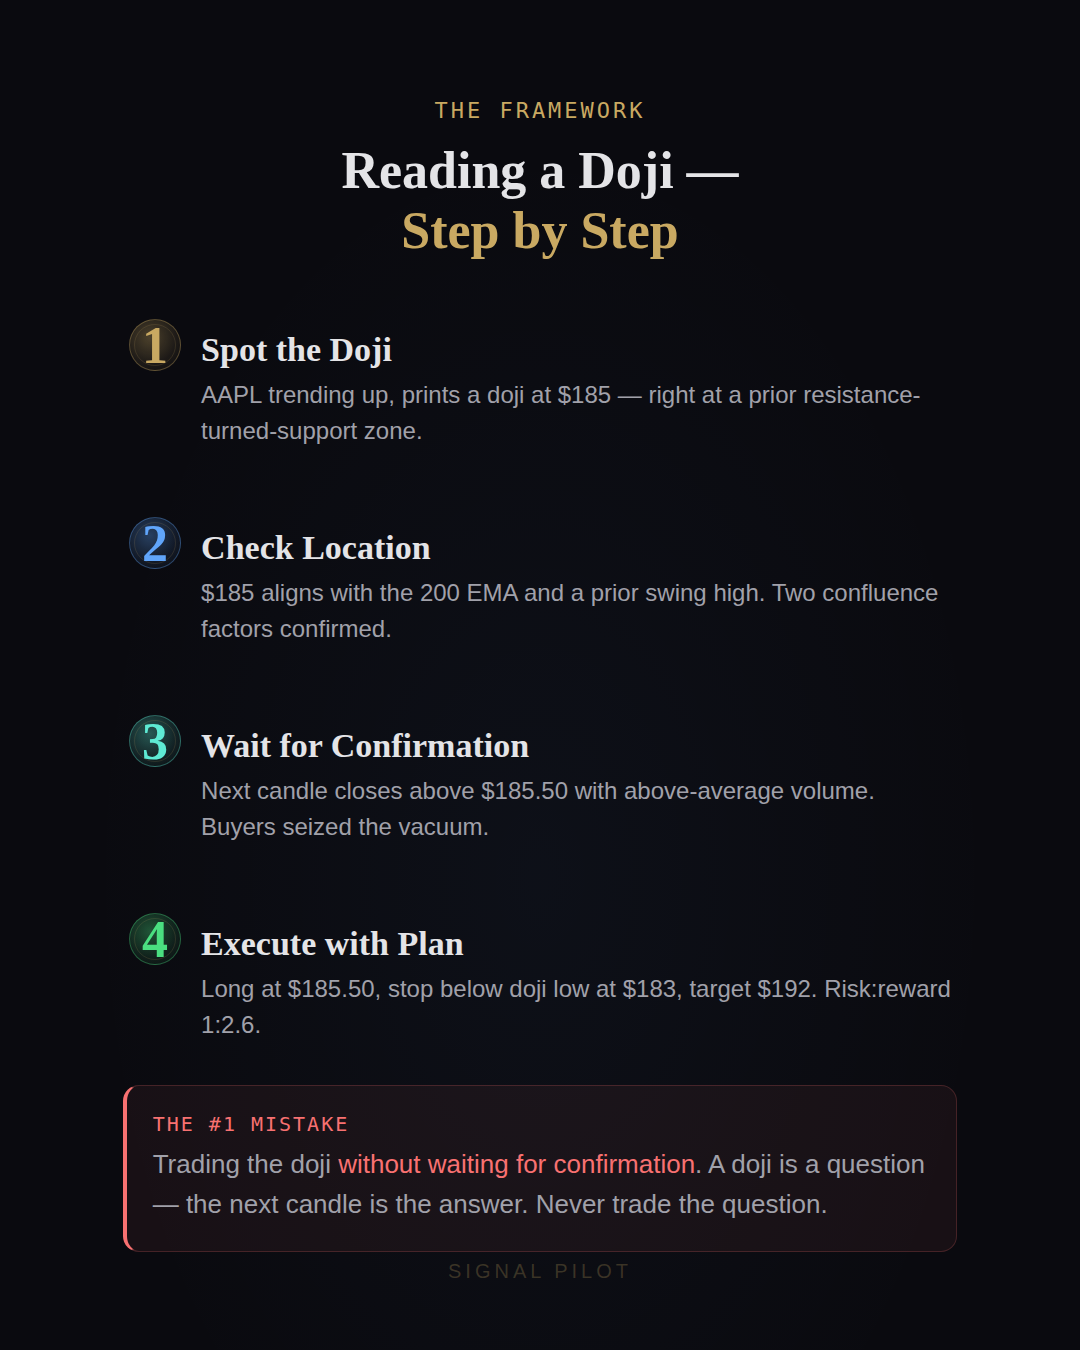
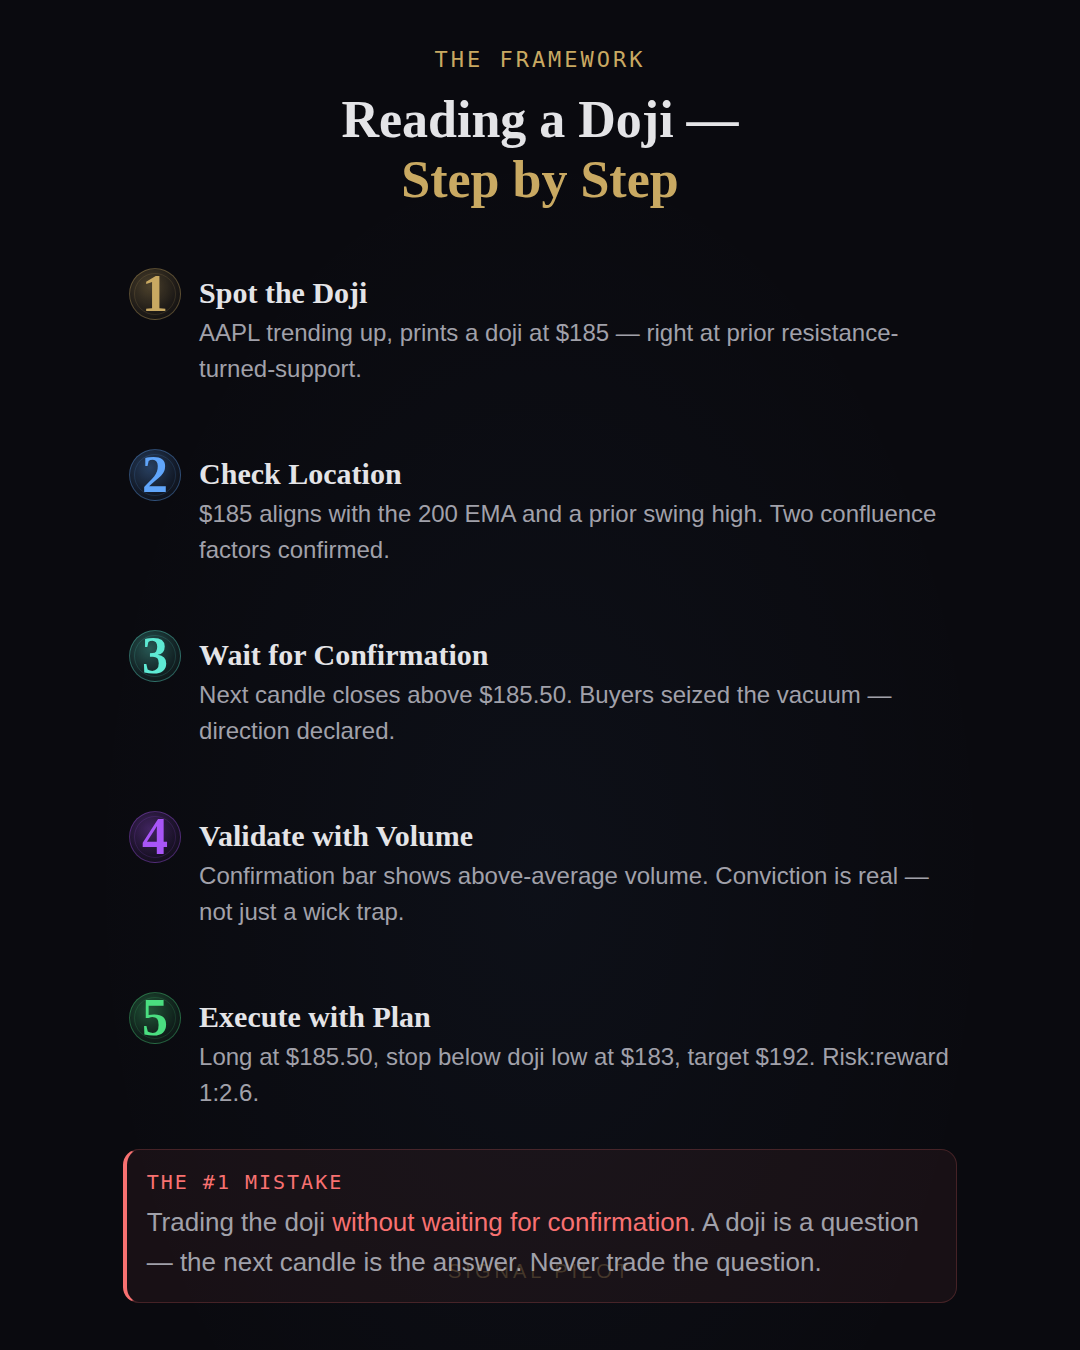
post-056: close remaining gaps vs post-109 quality
- Add 5th framework step (Validate with Volume) matching post-109's 5-step pattern
- Replace inline step-ring styles with proper sr-gold/sr-blue/sr-teal/sr-purple/sr-green CSS classes
- Make doji candle in slide 1 orb thicker with stronger glow effect
- Tighten step-flow spacing to fit 5 steps + warning box within slide bounds
- Update CTA stat grid: 3 RULES → 5 STEPS

https://claude.ai/code/session_01JdAyDtW3X2RhJAyPJGnP6R

diff --git a/INSTAGRAM_CONTENT_HUB/social/post-056/carousel.html b/INSTAGRAM_CONTENT_HUB/social/post-056/carousel.html
@@ -120,14 +120,24 @@ body{background:var(--bg);color:var(--txt);font-family:var(--sans);min-height:10
 
 .pill{display:inline-block;padding:clamp(6px,1.2cqw,12px) clamp(12px,2.4cqw,22px);border-radius:20px;font-family:var(--mono);font-size:clamp(10px,2cqw,20px);letter-spacing:0.08em;background:rgba(201,169,98,0.06);border:1px solid rgba(201,169,98,0.2);color:var(--gold)}
 
-.step-flow{width:100%;display:flex;flex-direction:column;gap:clamp(8px,2cqw,20px)}
-.step-row{display:flex;align-items:flex-start;gap:clamp(10px,2cqw,20px)}
-.step-ring{width:clamp(44px,8cqw,76px);height:clamp(44px,8cqw,76px);border-radius:50%;display:flex;align-items:center;justify-content:center;flex-shrink:0;background:radial-gradient(circle at 40% 35%,rgba(201,169,98,0.35) 0%,rgba(201,169,98,0.1) 60%,transparent 100%);border:1.5px solid rgba(201,169,98,0.35);position:relative}
-.step-ring::before{content:'';position:absolute;inset:4px;border-radius:50%;border:1px solid rgba(201,169,98,0.15)}
-.step-num{font-family:var(--serif);font-size:clamp(20px,3.8cqw,38px);font-weight:700;color:var(--gold);position:relative;z-index:2}
-.step-body{flex:1;text-align:left;padding-top:clamp(6px,1.2cqw,12px)}
-.step-title{font-family:var(--serif);font-size:clamp(18px,3.4cqw,34px);font-weight:600;color:var(--txt);margin-bottom:clamp(4px,0.8cqw,8px)}
-.step-desc{font-size:clamp(13px,2.6cqw,26px);color:var(--txt2);line-height:1.4}
+.step-flow{width:100%;display:flex;flex-direction:column;gap:clamp(6px,1.4cqw,14px)}
+.step-row{display:flex;align-items:flex-start;gap:clamp(10px,2cqw,18px)}
+.step-ring{width:clamp(36px,6.5cqw,62px);height:clamp(36px,6.5cqw,62px);border-radius:50%;display:flex;align-items:center;justify-content:center;flex-shrink:0;position:relative}
+.step-ring::before{content:'';position:absolute;inset:4px;border-radius:50%}
+.step-num{font-family:var(--serif);font-size:clamp(16px,3.2cqw,32px);font-weight:700;position:relative;z-index:2}
+.sr-gold{background:radial-gradient(circle at 40% 35%,rgba(201,169,98,0.35) 0%,rgba(201,169,98,0.1) 60%,transparent 100%);border:1.5px solid rgba(201,169,98,0.35)}
+.sr-gold::before{border:1px solid rgba(201,169,98,0.15)}.sr-gold .step-num{color:var(--gold)}
+.sr-blue{background:radial-gradient(circle at 40% 35%,rgba(96,165,250,0.35) 0%,rgba(96,165,250,0.1) 60%,transparent 100%);border:1.5px solid rgba(96,165,250,0.35)}
+.sr-blue::before{border:1px solid rgba(96,165,250,0.15)}.sr-blue .step-num{color:var(--blue)}
+.sr-teal{background:radial-gradient(circle at 40% 35%,rgba(94,234,212,0.35) 0%,rgba(94,234,212,0.1) 60%,transparent 100%);border:1.5px solid rgba(94,234,212,0.35)}
+.sr-teal::before{border:1px solid rgba(94,234,212,0.15)}.sr-teal .step-num{color:var(--teal)}
+.sr-purple{background:radial-gradient(circle at 40% 35%,rgba(168,85,247,0.35) 0%,rgba(168,85,247,0.1) 60%,transparent 100%);border:1.5px solid rgba(168,85,247,0.35)}
+.sr-purple::before{border:1px solid rgba(168,85,247,0.15)}.sr-purple .step-num{color:var(--purple)}
+.sr-green{background:radial-gradient(circle at 40% 35%,rgba(74,222,128,0.35) 0%,rgba(74,222,128,0.1) 60%,transparent 100%);border:1.5px solid rgba(74,222,128,0.35)}
+.sr-green::before{border:1px solid rgba(74,222,128,0.15)}.sr-green .step-num{color:var(--green)}
+.step-body{flex:1;text-align:left;padding-top:clamp(4px,0.8cqw,8px)}
+.step-title{font-family:var(--serif);font-size:clamp(16px,3cqw,30px);font-weight:600;color:var(--txt);margin-bottom:clamp(2px,0.5cqw,5px)}
+.step-desc{font-size:clamp(12px,2.4cqw,24px);color:var(--txt2);line-height:1.4}
 
 .ctx-item{padding:clamp(14px,2.8cqw,28px);border-radius:clamp(10px,2cqw,18px);background:var(--surface);border:1px solid rgba(255,255,255,0.04);border-left:5px solid;display:flex;gap:clamp(10px,2cqw,18px);align-items:flex-start}
 .ctx-item.high{background:var(--blue-d);border-left-color:var(--blue)}
@@ -168,7 +178,7 @@ body{background:var(--bg);color:var(--txt);font-family:var(--sans);min-height:10
 .stack-arrow{font-size:clamp(12px,2.4cqw,22px);color:var(--txt3)}
 .stack-result{width:100%;height:clamp(34px,6cqw,54px);border-radius:clamp(8px,1.5cqw,14px);display:flex;align-items:center;justify-content:center;background:rgba(201,169,98,0.12);border:1.5px solid rgba(201,169,98,0.35);font-family:var(--mono);font-size:clamp(10px,2cqw,20px);color:var(--gold);letter-spacing:0.12em;box-shadow:0 0 20px rgba(201,169,98,0.08)}
 
-.warn-box{width:92%;padding:clamp(14px,2.8cqw,26px);border-radius:clamp(10px,2cqw,16px);background:rgba(248,113,113,0.06);border:1px solid rgba(248,113,113,0.2);border-left:4px solid var(--red);text-align:left;margin-top:clamp(10px,2cqw,18px)}
+.warn-box{width:92%;padding:clamp(12px,2.2cqw,20px);border-radius:clamp(10px,2cqw,16px);background:rgba(248,113,113,0.06);border:1px solid rgba(248,113,113,0.2);border-left:4px solid var(--red);text-align:left;margin-top:clamp(8px,1.5cqw,14px)}
 .warn-label{font-family:var(--mono);font-size:clamp(9px,1.8cqw,17px);letter-spacing:0.15em;text-transform:uppercase;color:var(--red);margin-bottom:clamp(4px,0.8cqw,8px)}
 .warn-text{font-size:clamp(11px,2.2cqw,22px);color:var(--txt2);line-height:1.45}
 .warn-text em{font-style:normal;color:var(--red)}
@@ -222,10 +232,10 @@ body.export-mode .export-nav{display:flex}
 <div class="slide-content" style="justify-content:center;">
 <span class="slide-number">01 / 06</span>
 <div class="orb">
-<div class="candle candle-glow" style="z-index:2">
-<div class="candle-wick gold" style="height:clamp(28px,5.5cqw,50px)"></div>
-<div class="candle-body gold" style="height:clamp(3px,0.5cqw,5px)"></div>
-<div class="candle-wick gold" style="height:clamp(28px,5.5cqw,50px)"></div>
+<div class="candle" style="z-index:2;filter:drop-shadow(0 0 12px rgba(201,169,98,0.5)) drop-shadow(0 0 24px rgba(201,169,98,0.2))">
+<div class="candle-wick gold" style="height:clamp(36px,7cqw,64px);width:clamp(4px,0.7cqw,6px)"></div>
+<div class="candle-body gold" style="height:clamp(6px,1cqw,9px);width:clamp(26px,5cqw,46px)"></div>
+<div class="candle-wick gold" style="height:clamp(36px,7cqw,64px);width:clamp(4px,0.7cqw,6px)"></div>
 </div>
 </div>
 <div class="hook-tag">PRICE ACTION</div>
@@ -359,28 +369,35 @@ body.export-mode .export-nav{display:flex}
 <div class="sec-title">Reading a Doji —<br><em>Step by Step</em></div>
 <div class="step-flow">
 <div class="step-row">
-<div class="step-ring"><span class="step-num">1</span></div>
+<div class="step-ring sr-gold"><span class="step-num">1</span></div>
 <div class="step-body">
 <div class="step-title">Spot the Doji</div>
-<div class="step-desc">AAPL trending up, prints a doji at $185 — right at a prior resistance-turned-support zone.</div>
+<div class="step-desc">AAPL trending up, prints a doji at $185 — right at prior resistance-turned-support.</div>
 </div>
 </div>
 <div class="step-row">
-<div class="step-ring" style="background:radial-gradient(circle at 40% 35%,rgba(96,165,250,0.35) 0%,rgba(96,165,250,0.1) 60%,transparent 100%);border-color:rgba(96,165,250,0.35)"><span class="step-num" style="color:var(--blue)">2</span></div>
+<div class="step-ring sr-blue"><span class="step-num">2</span></div>
 <div class="step-body">
 <div class="step-title">Check Location</div>
 <div class="step-desc">$185 aligns with the 200 EMA and a prior swing high. Two confluence factors confirmed.</div>
 </div>
 </div>
 <div class="step-row">
-<div class="step-ring" style="background:radial-gradient(circle at 40% 35%,rgba(94,234,212,0.35) 0%,rgba(94,234,212,0.1) 60%,transparent 100%);border-color:rgba(94,234,212,0.35)"><span class="step-num" style="color:var(--teal)">3</span></div>
+<div class="step-ring sr-teal"><span class="step-num">3</span></div>
 <div class="step-body">
 <div class="step-title">Wait for Confirmation</div>
-<div class="step-desc">Next candle closes above $185.50 with above-average volume. Buyers seized the vacuum.</div>
+<div class="step-desc">Next candle closes above $185.50. Buyers seized the vacuum — direction declared.</div>
 </div>
 </div>
 <div class="step-row">
-<div class="step-ring" style="background:radial-gradient(circle at 40% 35%,rgba(74,222,128,0.35) 0%,rgba(74,222,128,0.1) 60%,transparent 100%);border-color:rgba(74,222,128,0.35)"><span class="step-num" style="color:var(--green)">4</span></div>
+<div class="step-ring sr-purple"><span class="step-num">4</span></div>
+<div class="step-body">
+<div class="step-title">Validate with Volume</div>
+<div class="step-desc">Confirmation bar shows above-average volume. Conviction is real — not just a wick trap.</div>
+</div>
+</div>
+<div class="step-row">
+<div class="step-ring sr-green"><span class="step-num">5</span></div>
 <div class="step-body">
 <div class="step-title">Execute with Plan</div>
 <div class="step-desc">Long at $185.50, stop below doji low at $183, target $192. Risk:reward 1:2.6.</div>
@@ -434,7 +451,7 @@ body.export-mode .export-nav{display:flex}
 <p class="cta-sub">Free education from beginner to professional. Learn to read indecision and trade with conviction.</p>
 <div class="stat-grid">
 <div class="stat-cell"><div class="sv">4</div><div class="sl">TYPES</div></div>
-<div class="stat-cell"><div class="sv">3</div><div class="sl">RULES</div></div>
+<div class="stat-cell"><div class="sv">5</div><div class="sl">STEPS</div></div>
 <div class="stat-cell"><div class="sv">1</div><div class="sl">TRUTH</div></div>
 </div>
 <div class="pill-row">
